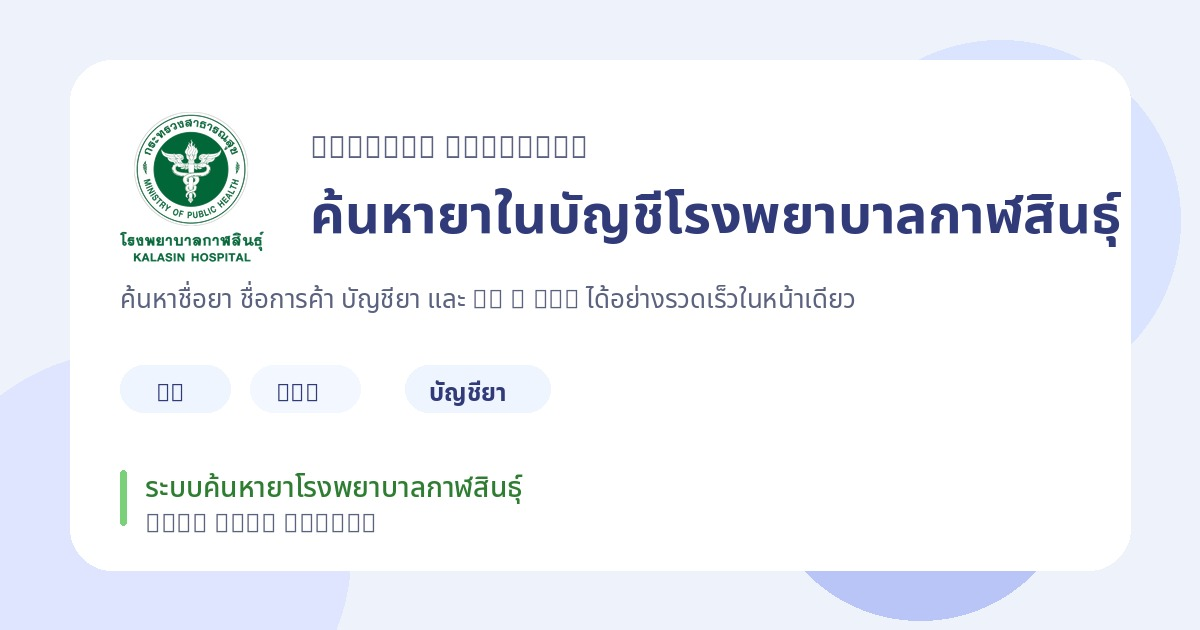
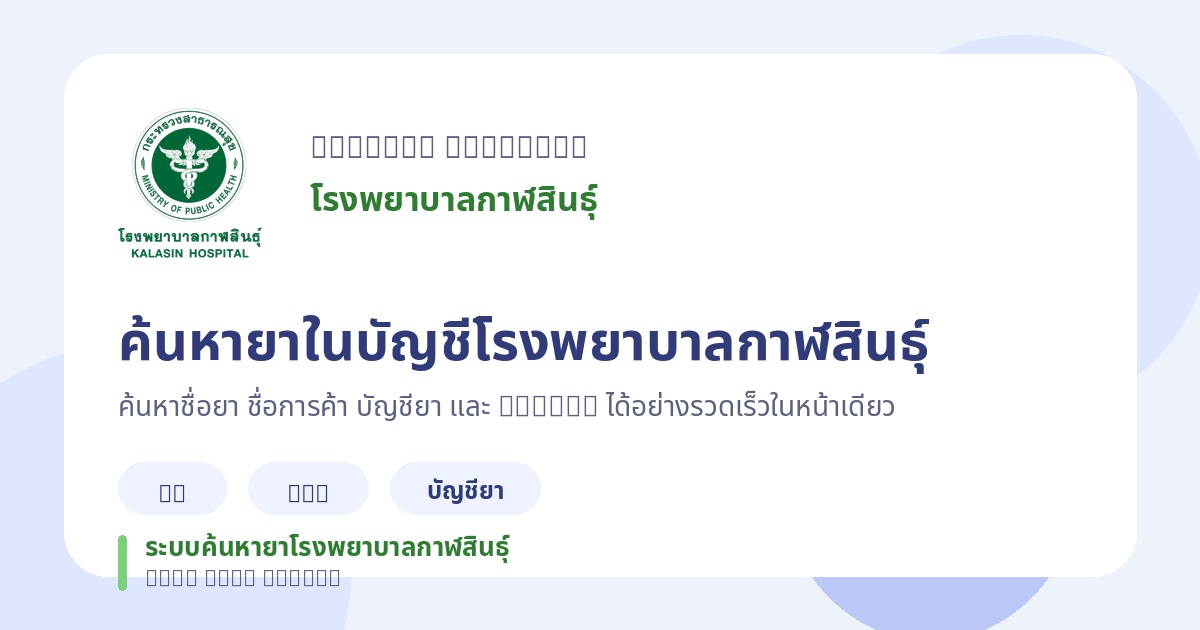
ฟฟ

diff --git a/index.html b/index.html
@@ -10,7 +10,7 @@
   <meta property="og:description" content="ระบบค้นหาชื่อยา ชื่อการค้า บัญชียา และ ED/NED ของโรงพยาบาลกาฬสินธุ์" />
   <meta property="og:type" content="website" />
   <meta property="og:url" content="https://klshdrug.pages.dev/" />
-  <meta property="og:image" content="https://klshdrug.pages.dev/preview-klshdrug.jpg" />
+  <meta property="og:image" content="https://klshdrug.pages.dev/preview-klshdrug.jpg?v=23" />
   <meta property="og:image:width" content="1200" />
   <meta property="og:image:height" content="630" />
   <meta property="og:site_name" content="โรงพยาบาลกาฬสินธุ์" />
@@ -18,7 +18,7 @@
   <meta name="twitter:card" content="summary_large_image" />
   <meta name="twitter:title" content="ค้นหายาในบัญชีโรงพยาบาลกาฬสินธุ์" />
   <meta name="twitter:description" content="ระบบค้นหาชื่อยา ชื่อการค้า บัญชียา และ ED/NED ของโรงพยาบาลกาฬสินธุ์" />
-  <meta name="twitter:image" content="https://klshdrug.pages.dev/preview-klshdrug.jpg" />
+  <meta name="twitter:image" content="https://klshdrug.pages.dev/preview-klshdrug.jpg?v=23" />
   <link rel="preconnect" href="https://fonts.googleapis.com">
   <link rel="preconnect" href="https://fonts.gstatic.com" crossorigin>
   <link href="https://fonts.googleapis.com/css2?family=Prompt:wght@300;400;500;600&display=swap" rel="stylesheet">